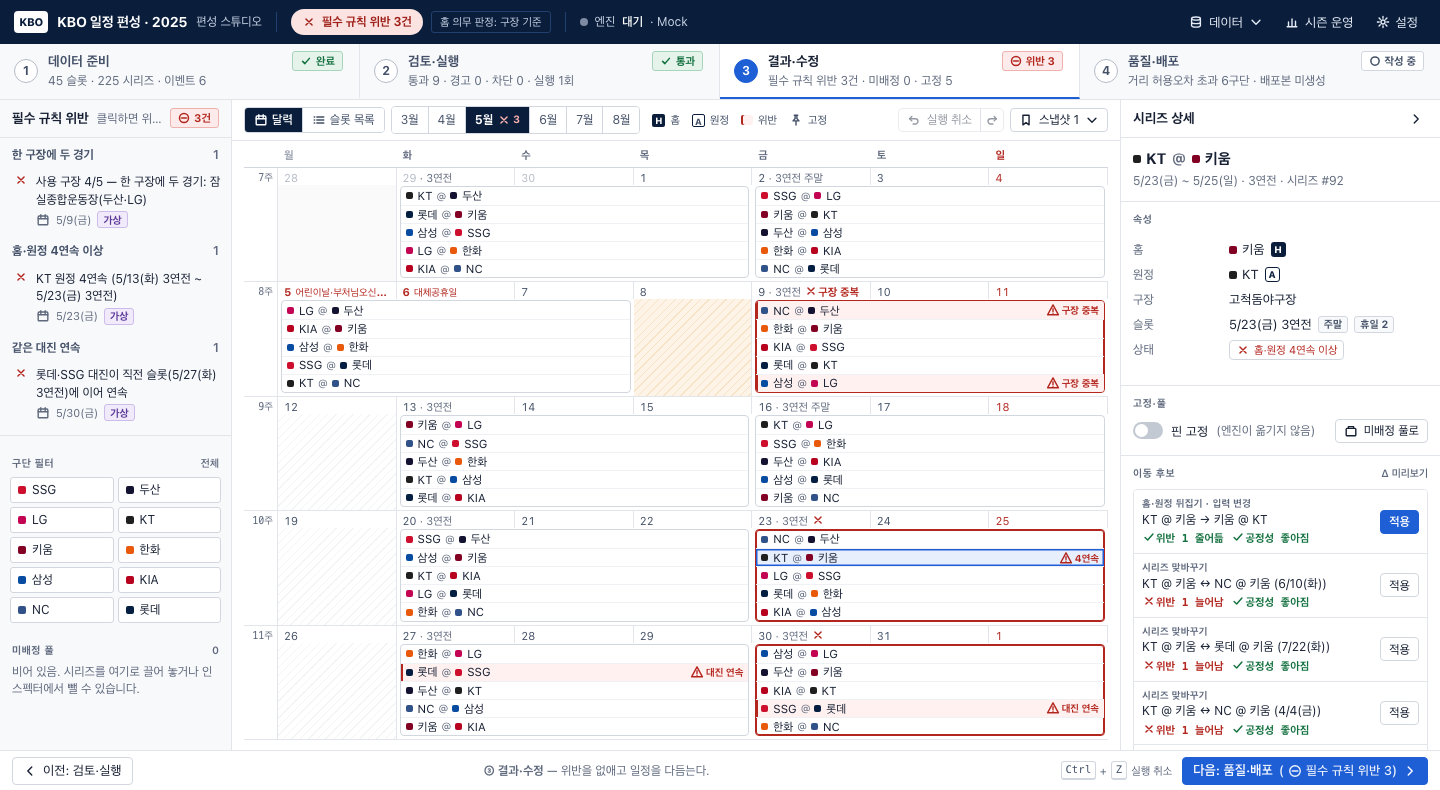
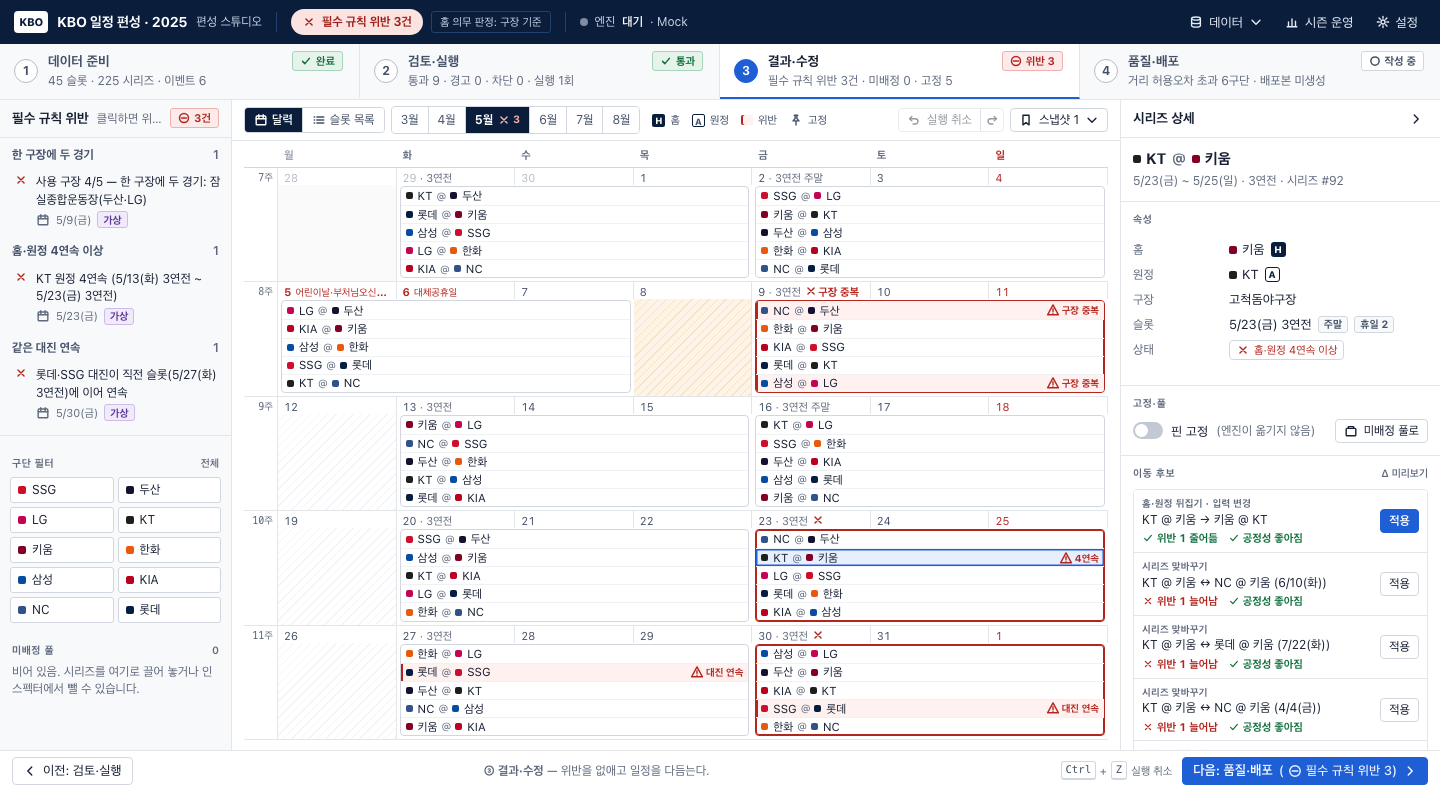
③ 조치 후보의 변화 표시를 일반 글꼴로 바꾸고 이동 경로 도구 막대의 불필요한 목업 표시를 뺀다.

diff --git a/app/studio/route-player.js b/app/studio/route-player.js
@@ -199,8 +199,7 @@
       '<button class="btn sm" data-act="rt-restart" title="시즌 처음으로">' + icon('undo') + '처음</button>' +
       '<span class="seg" role="group" aria-label="재생 속도">' + SPEEDS.map((x) => '<button class="' + (x === speed ? 'on' : '') + '" data-act="rt-speed" data-v="' + x + '" aria-pressed="' + (x === speed) + '">' + x + '×</button>').join('') + '</span>' +
       '<input type="range" class="rt-range" id="rtRange" min="0" max="' + Math.max(0, legs.length - 1) + '" step="0.05" value="' + (u.routePos || 0).toFixed(2) + '" data-live="rt-range" aria-label="시즌 위치 (구간)">' +
-      '<span class="rt-pos mono" id="rtPos">' + (l ? esc(fmt.short(l.day)) + ' · ' + (k + 1) + '/' + legs.length : '-') + '</span>' +
-      S.mock('재생 속도 시연') + '</div>';
+      '<span class="rt-pos mono" id="rtPos">' + (l ? esc(fmt.short(l.day)) + ' · ' + (k + 1) + '/' + legs.length : '-') + '</span></div>';
     main += '<div class="rt-stage"><div class="rt-mapcol"><div class="rt-map" id="rtMap">' + baseMap(name) + '</div>' +
       '<div class="rt-tl-wrap"><div class="rt-tl-head small"><b>시즌 타임라인</b><span class="muted">칸 = 시리즈 · 진한 칸 홈 · 흰 칸 원정 · 빨간 ✕ 취소</span></div><div class="rt-tl" id="rtTl">' + timelineHtml(legs) + '</div></div></div>' +
       '<div class="rt-logcol"><div class="rt-log-head"><b>구간 기록</b><span class="muted small">최근 순 · km</span></div><div class="rt-log-cols"><span>#</span><span>기간</span><span></span><span>상대·구장</span><span>구간</span><span>누적</span></div><div class="rt-log" id="rtLog">' + logHtml(legs) + '</div></div></div>';

diff --git a/app/studio/step-result.js b/app/studio/step-result.js
@@ -80,7 +80,7 @@
     if (S.dev()) return '<span class="delta"><span class="' + hc + '">Hard ' + fmt.signed(h) + (h > 0 ? ' 해소' : '') + '</span>' + (s != null ? '<span class="' + sc + '">Soft ' + fmt.signed(s) + '</span>' : '') + '</span>';
     const ht = h > 0 ? icon('check') + '위반 ' + h + ' 줄어듦' : h < 0 ? icon('x') + '위반 ' + (-h) + ' 늘어남' : '위반 그대로';
     const st = s == null ? '' : s > 0 ? icon('check') + '공정성 좋아짐' : s < 0 ? icon('warn') + '공정성 나빠짐' : '공정성 그대로';
-    return '<span class="delta"><span class="' + hc + '">' + ht + '</span>' + (st ? '<span class="' + sc + '">' + st + '</span>' : '') + '</span>';
+    return '<span class="delta plain"><span class="' + hc + '">' + ht + '</span>' + (st ? '<span class="' + sc + '">' + st + '</span>' : '') + '</span>';
   };
   function deltaHtml(cd) {
     if (!S.feature('M2')) return '';

diff --git a/app/studio/studio.css b/app/studio/studio.css
@@ -968,3 +968,6 @@ svg.mc text { font-family: var(--font); }
 .rt-cancel { color: var(--bad); font-size: var(--fs-s); font-weight: 600; display: flex; gap: 4px; align-items: center; }
 .rt-next { margin-top: 8px; color: var(--blue); display: flex; gap: 5px; align-items: center; font-weight: 600; }
 .ws-route .pane.main { display: flex; flex-direction: column; }
+.cand .delta.plain { font-family: var(--font); gap: 10px; }
+.cand .delta.plain > span { display: inline-flex; align-items: center; gap: 3px; }
+.cand .delta.plain svg.i { width: 12px; height: 12px; }
